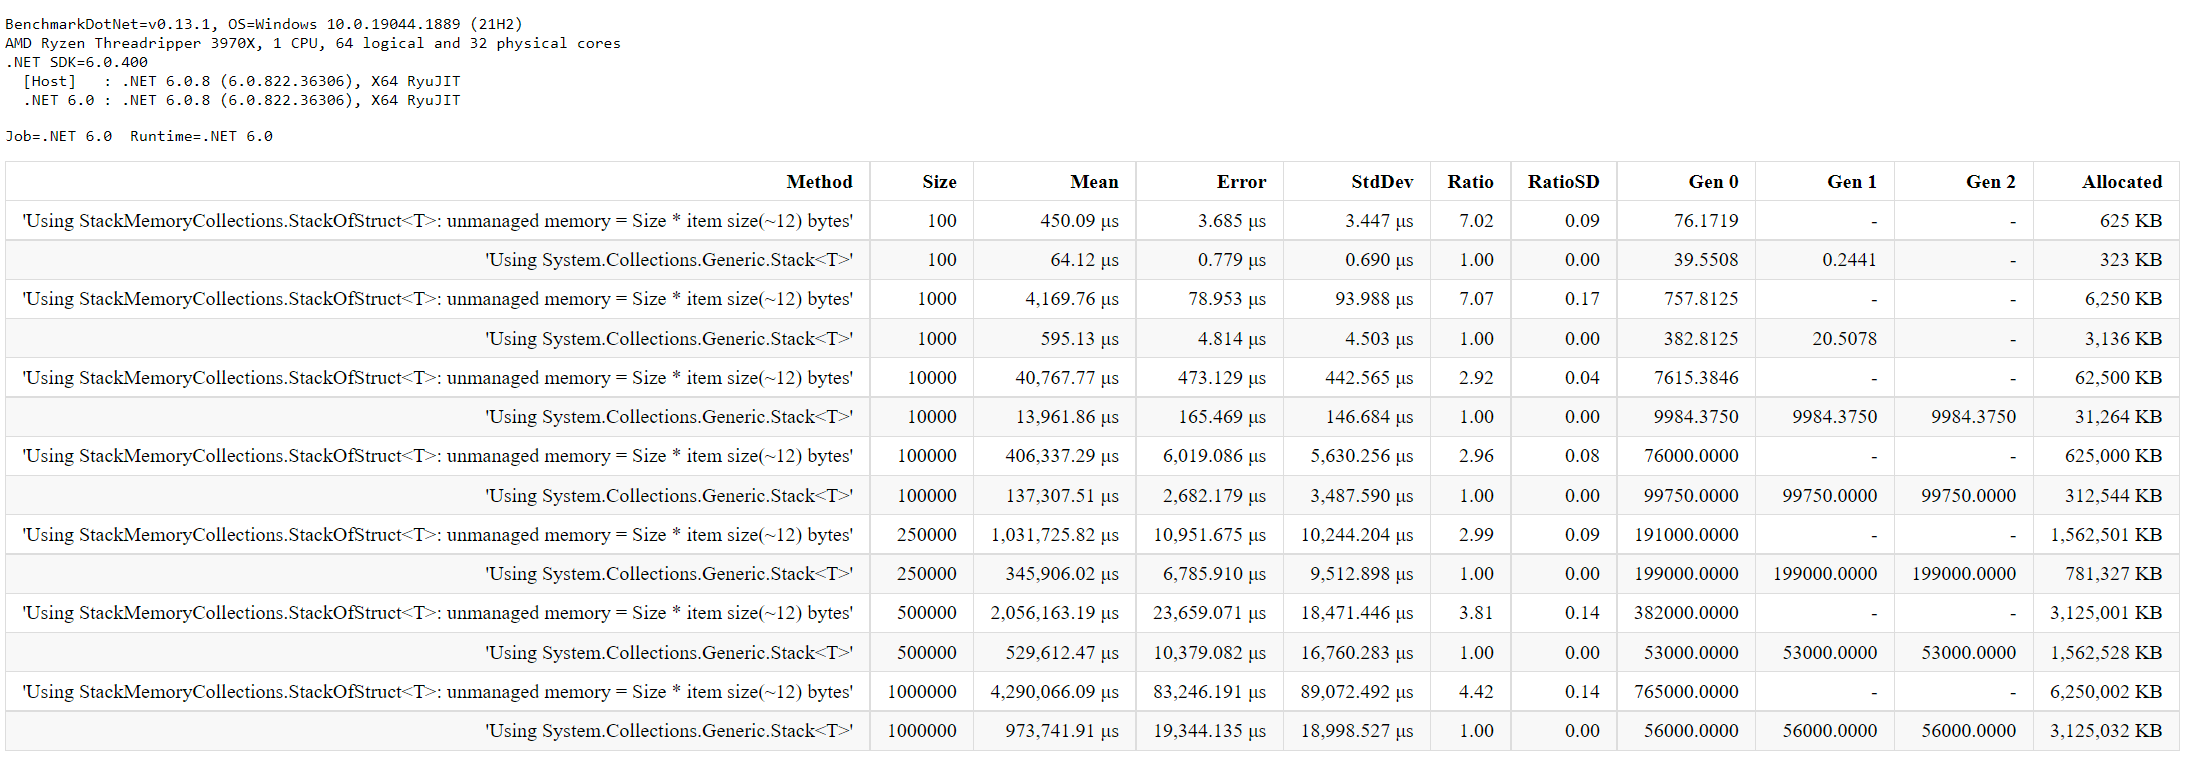
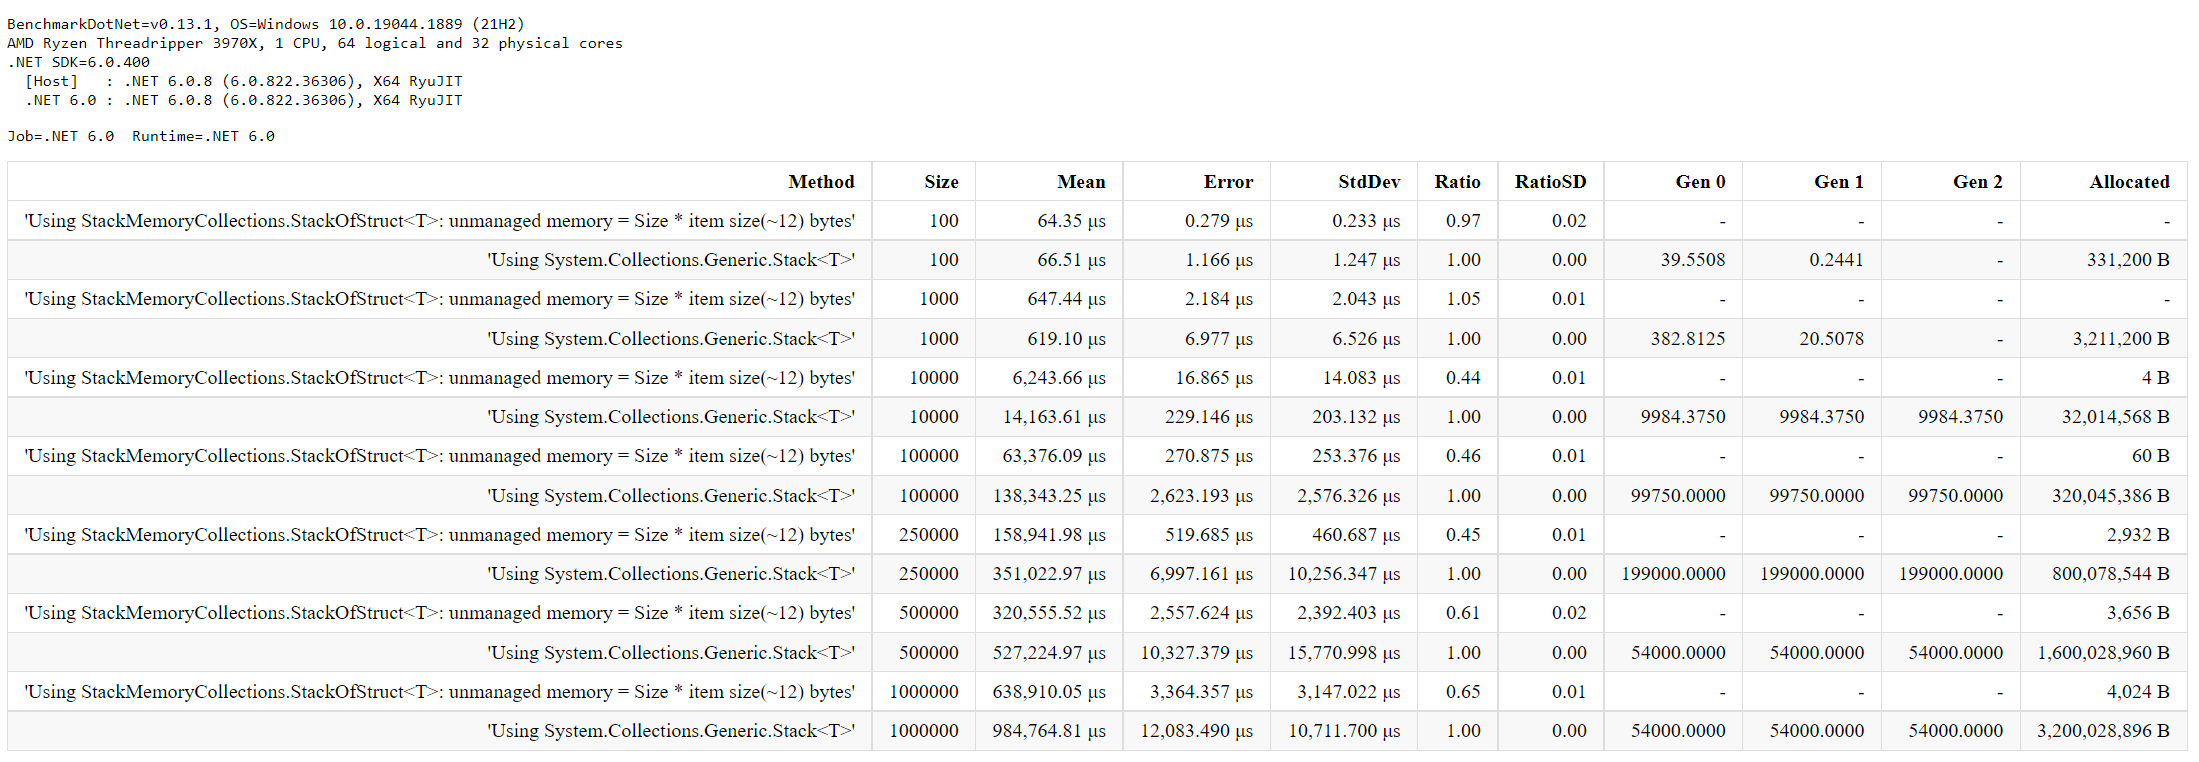
update test results

diff --git a/Src/Benchmarks/StackJob.cs b/Src/Benchmarks/StackJob.cs
@@ -24,7 +24,7 @@ namespace Benchmark
                             using var stack = new Stack<int>((nuint)Size, &memory);
                             for (int i = 0; i < Size; i++)
                             {
-                                stack.Push(i);
+                                stack.Push(in i);
                             }
 
                             if(j > 50)
@@ -43,12 +43,19 @@ namespace Benchmark
                         using var stack2 = new Stack<int>((nuint)Size, &memory);
                         for (int i = 0; i < Size; i++)
                         {
-                            stack2.Push(i);
+                            stack2.Push(in i);
                         }
 
-                        while (!stack2.IsEmpty)
+                        if (j > 50)
                         {
-                            stack2.Pop();
+                            stack2.Clear();
+                        }
+                        else
+                        {
+                            while (!stack2.IsEmpty)
+                            {
+                                stack2.Pop();
+                            }
                         }
                     }
                 }

diff --git a/Src/Benchmarks/StackOfStructJob.cs b/Src/Benchmarks/StackOfStructJob.cs
@@ -51,9 +51,16 @@ namespace Benchmark
                             stack2.Push(in item);
                         }
 
-                        while (!stack2.IsEmpty)
+                        if (j > 50)
                         {
-                            stack2.Pop();
+                            stack2.Clear();
+                        }
+                        else
+                        {
+                            while (!stack2.IsEmpty)
+                            {
+                                stack2.Pop();
+                            }
                         }
                     }
                 }

diff --git a/Src/Benchmarks/Program.cs b/Src/Benchmarks/Program.cs
@@ -6,7 +6,7 @@ namespace Benchmark
     {
         static void Main(string[] args)
         {
-            //BenchmarkRunner.Run<StackJob>();
+            BenchmarkRunner.Run<StackJob>();
             BenchmarkRunner.Run<StackOfStructJob>();
         }
     }
